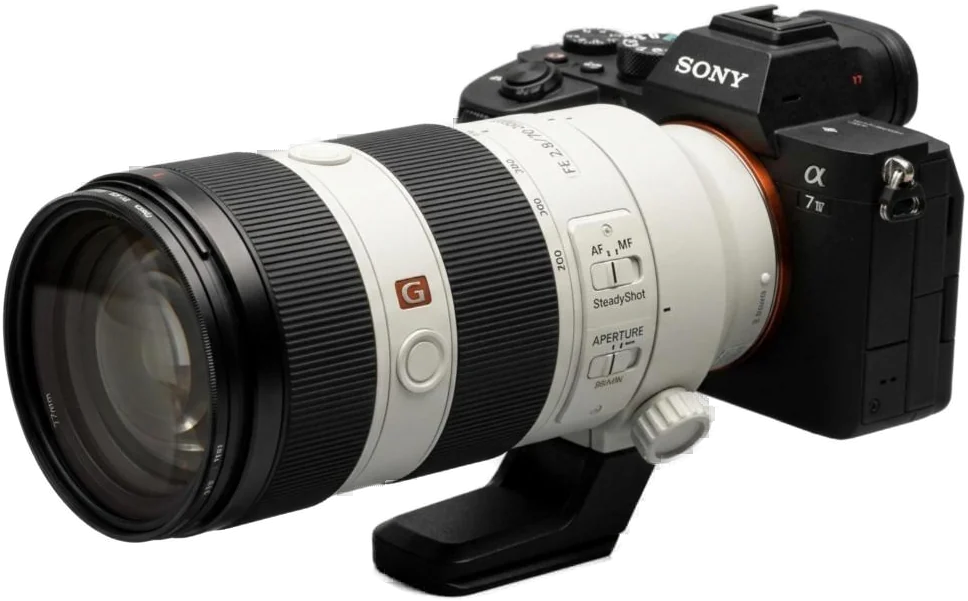
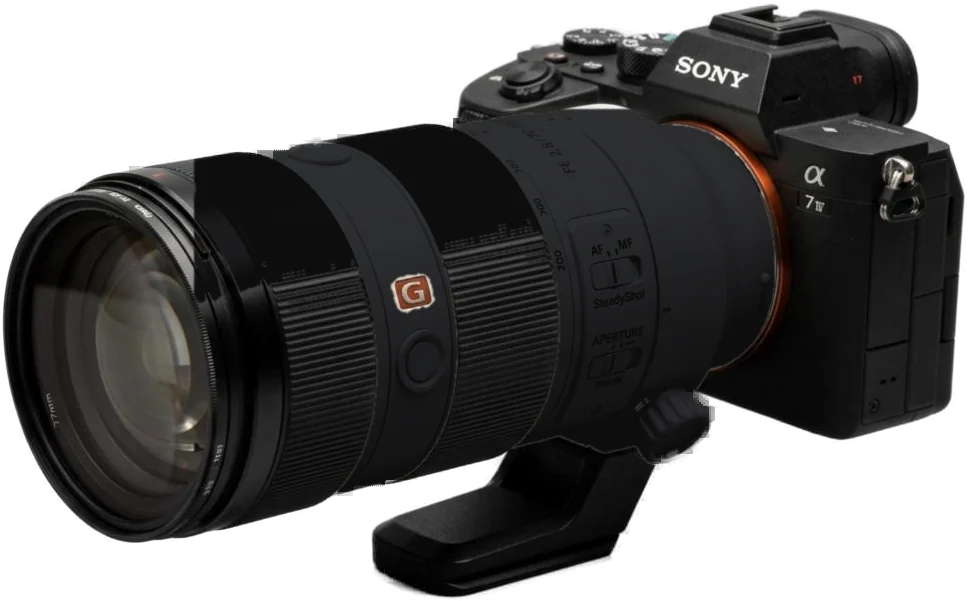
Gear: black telephoto lens; drone larger, lower and faded behind the text with full-strength lights
Claude-Session: https://claude.ai/code/session_01MhApnvV5vzEbPeoshnuhkk

Changed region(s): [[0.186, 0.1797, 0.8058, 0.8386], [0.186, 0.7188, 0.2169, 0.7488]]

diff --git a/js/gear-bg.js b/js/gear-bg.js
@@ -27,11 +27,11 @@
 
   /* ---------- the kit ---------- */
   function load(src){ var i = new Image(); i.decoding = 'async'; i.src = src; return i; }
-  var V = '?v=1';
+  var V = '?v=2';
   // images are photographs of the real kit, cut out on transparent backgrounds
   var kit = {
-    cam:   {img:load('img/gear/camera.webp' + V), w:968, h:601, z:.55},
-    drone: {img:load('img/gear/drone.webp' + V), w:1213, h:580, z:.8,
+    cam:   {img:load('img/gear/camera.webp' + V), w:968, h:601, z:.55, fade:1},
+    drone: {img:load('img/gear/drone.webp' + V), w:1213, h:580, z:.8, fade:.38,
             leds:[{x:.735, y:.761, c:[70,255,140]}, {x:.098, y:.396, c:[255,40,40]}]},
     x360:  {img:load('img/gear/x360.webp' + V), w:0, h:0, z:.35}
   };
@@ -47,7 +47,7 @@
     var narrow = W < 760;
     // desktop: the whole camera with its telephoto and ND filter sits in the left margin, lens toward the page
     L.cam   = narrow ? {x:.30, y:.86, s:.62} : {x:.15, y:.70, s:.28};
-    L.drone = narrow ? {x:.80, y:.14, s:.42} : {x:.845, y:.27, s:.31};
+    L.drone = narrow ? {x:.66, y:.33, s:.62} : {x:.76, y:.42, s:.42};
     L.x360  = narrow ? {x:.88, y:.74, s:.30} : {x:.89, y:.70, s:.17};
   }
   addEventListener('resize', function(){ clearTimeout(layout.t); layout.t = setTimeout(layout, 120); });
@@ -151,7 +151,7 @@
       if (dd < Math.max(bw, bh) * .8){ var f = bell(age / 1.2) * 18; cx += dx / dd * f; cy += dy / dd * f; st.glow = Math.max(st.glow, bell(age / 1.2) * .5); }
     });
     var sc = st.sc, w = bw * sc, h = bh * sc;
-    var alpha = clamp(st.a, 0, 1);
+    var alpha = clamp(st.a, 0, 1) * (k.fade == null ? 1 : k.fade);
     // ambient depth of field: deeper pieces are softer
     var blur = st.blur;
 
@@ -181,7 +181,7 @@
     ctx.drawImage(k.img, -w / 2, -h / 2, w, h);
     ctx.filter = 'none';
     ctx.restore();
-    return {cx:cx, cy:cy, w:w, h:h, rot:st.rot, alpha:alpha};
+    return {cx:cx, cy:cy, w:w, h:h, rot:st.rot, alpha:clamp(st.a, 0, 1)};   // lights keep full strength
   }
 
   function drawLeds(box, now, dark){
@@ -237,9 +237,10 @@
     ctx.setTransform(dpr, 0, 0, dpr, 0, 0);
     ctx.clearRect(0, 0, W, H);
     drawSpotlight(now, dark);
-    var bx = drawPiece('x360', 0, now, dark);
-    drawPiece('cam', 1, now, dark);
+    // the faded drone sits furthest back; its lights are drawn last so they always read
     var bd = drawPiece('drone', 2, now, dark);
+    drawPiece('x360', 0, now, dark);
+    drawPiece('cam', 1, now, dark);
     drawLeds(bd, now, dark);
   }
 

diff --git a/index.html b/index.html
@@ -2118,6 +2118,6 @@ footer .links{display:flex;flex-wrap:wrap;justify-content:center;gap:10px 24px;f
 <script>(function(){var n=document.querySelector('.view-note');if(!n)return;try{if(localStorage.getItem('vn-off')||sessionStorage.getItem('vn-seen')){n.remove();return}}catch(e){}if(!window.matchMedia||!matchMedia('(max-width:760px)').matches){n.remove();return}document.body.appendChild(n);n.hidden=false;try{sessionStorage.setItem('vn-seen','1')}catch(e){}var gone=false;function hide(keep){if(gone)return;gone=true;n.classList.remove('on');if(keep){try{localStorage.setItem('vn-off','1')}catch(e){}}setTimeout(function(){n.remove()},600)}setTimeout(function(){n.classList.add('on')},900);setTimeout(function(){hide(false)},8000);addEventListener('scroll',function(){if(scrollY>240)hide(false)},{passive:true});n.querySelector('.vn-x').addEventListener('click',function(){hide(true)});})();</script>
 <script src="/chat-kb.js?v=1" defer></script><script src="/chat.js?v=1" defer></script>
 <script src="js/navmore.js" defer></script>
-<script src="js/gear-bg.js?v=5" defer></script>
+<script src="js/gear-bg.js?v=6" defer></script>
 </body>
 </html>
